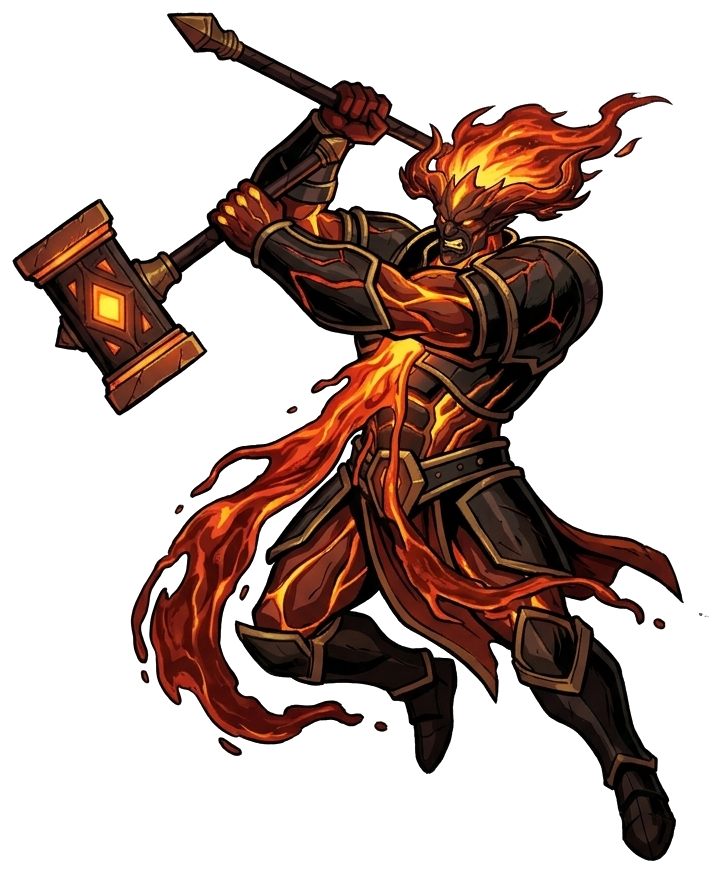
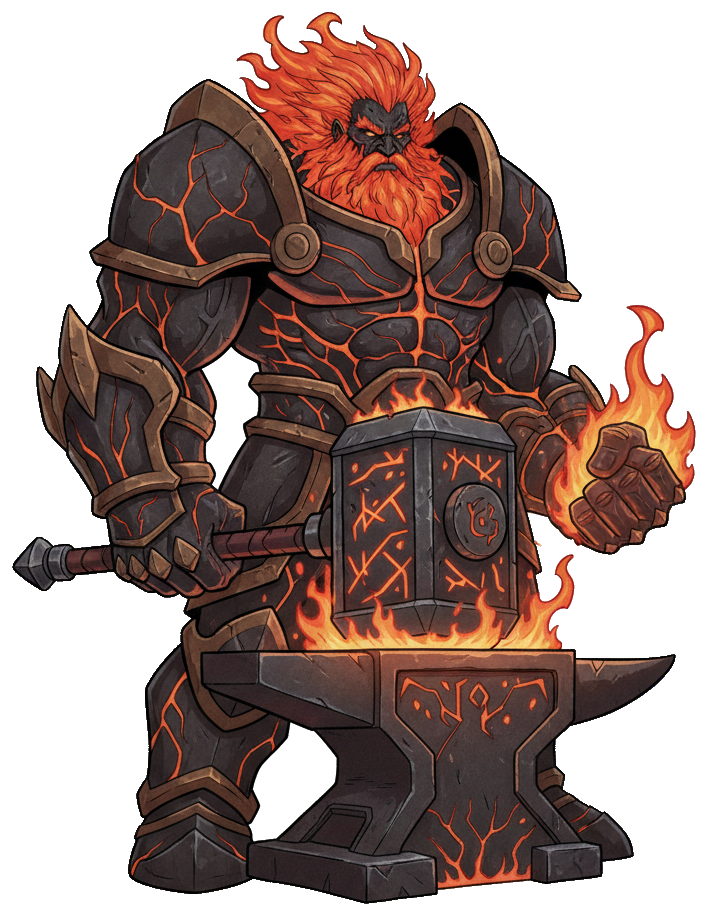
fix(art): regenerate Vulcanis (red_157) with proper single warhammer anatomy on volcanic anvil and bump image cache version

diff --git a/src/components/CardView.tsx b/src/components/CardView.tsx
@@ -363,7 +363,7 @@ export const CardView: React.FC<CardViewProps> = ({
           <div className={`mtg-token-art aura-${displayCard.domain}`}>
             {!imgError && displayCard.imagePath ? (
               <img
-                src={`${displayCard.imagePath}?v=39`}
+                src={`${displayCard.imagePath}?v=40`}
                 alt={displayName}
                 className="mtg-token-img"
                 onError={() => setImgError(true)}
@@ -520,7 +520,7 @@ export const CardView: React.FC<CardViewProps> = ({
 
           {!imgError && displayCard.imagePath ? (
             <img
-              src={`${displayCard.imagePath}?v=39`}
+              src={`${displayCard.imagePath}?v=40`}
               alt={displayName}
               className="card-cutout-img"
               onError={() => setImgError(true)}

diff --git a/src/components/MythologyAtlasView.tsx b/src/components/MythologyAtlasView.tsx
@@ -342,7 +342,7 @@ export const MythologyAtlasView: React.FC<MythologyAtlasViewProps> = ({ onInspec
                         title={`Clique para inspecionar ${card.name}`}
                       >
                         <img
-                          src={`${card.imagePath}?v=12`}
+                          src={`${card.imagePath}?v=13`}
                           alt={card.name}
                           className="poem-card-medallion-img"
                           loading="lazy"
